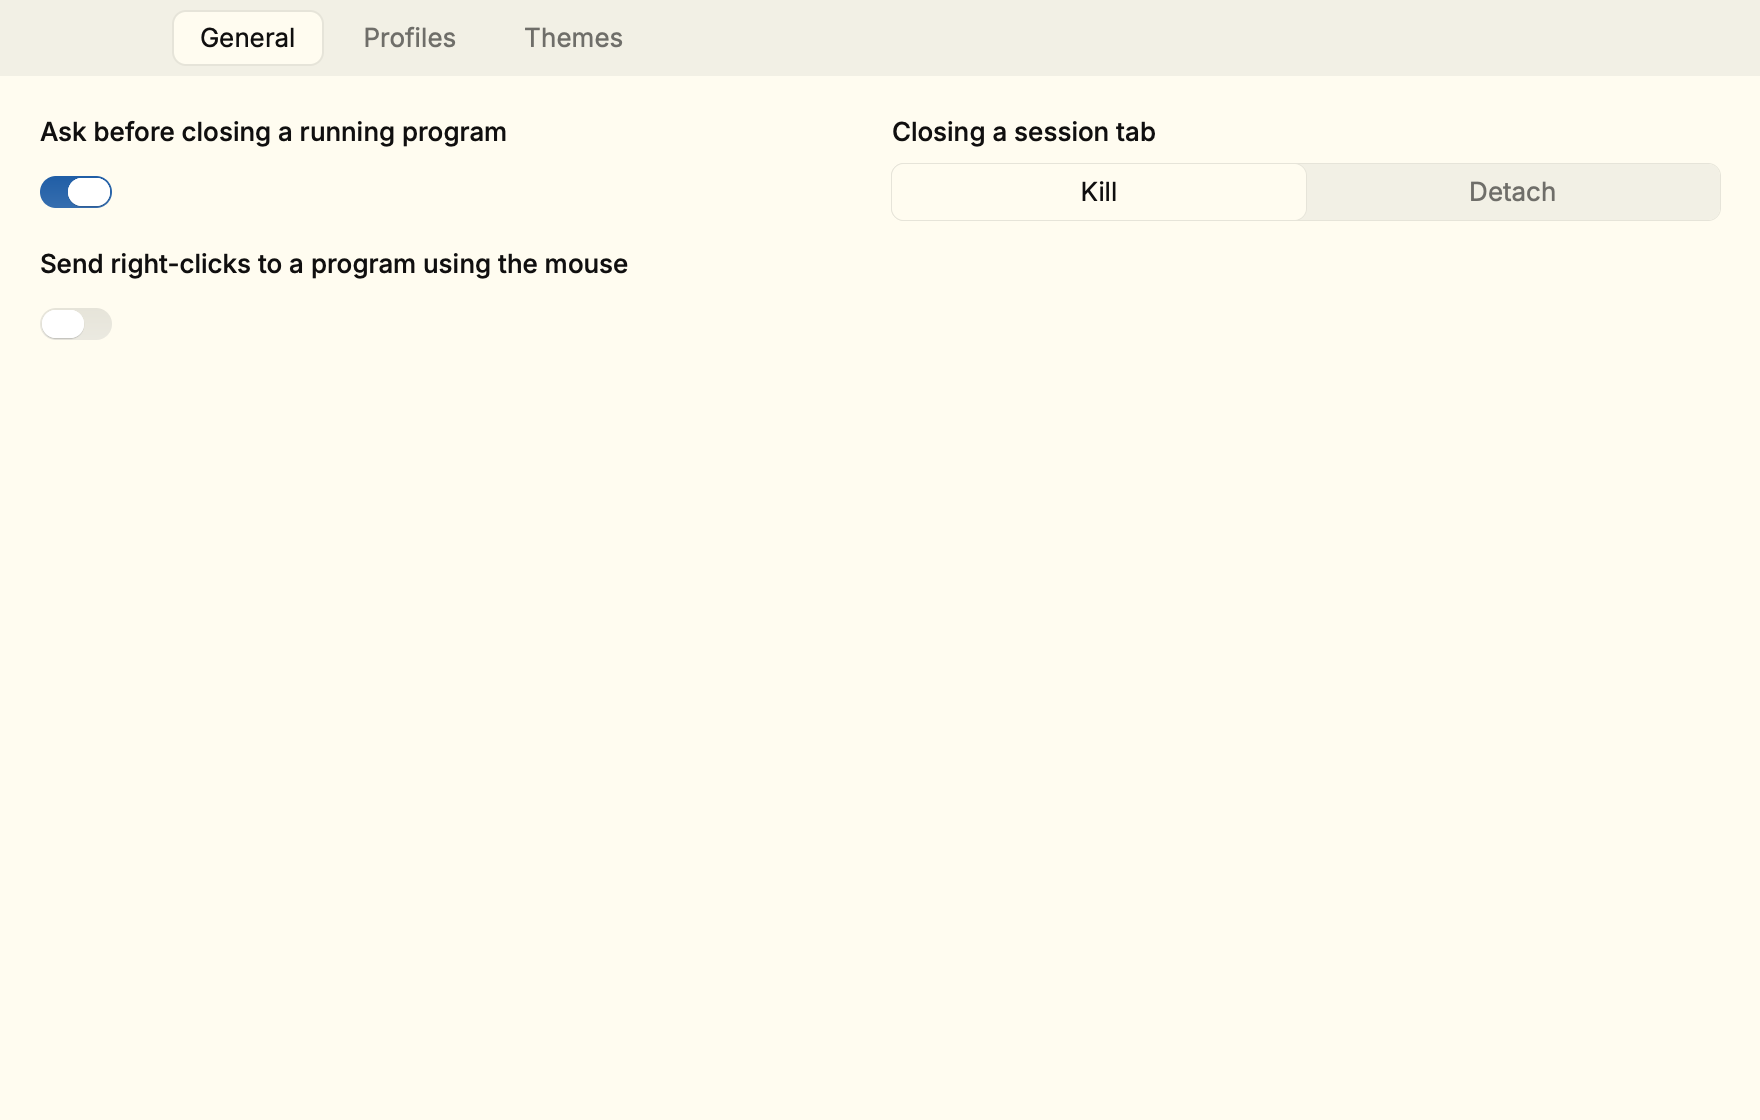
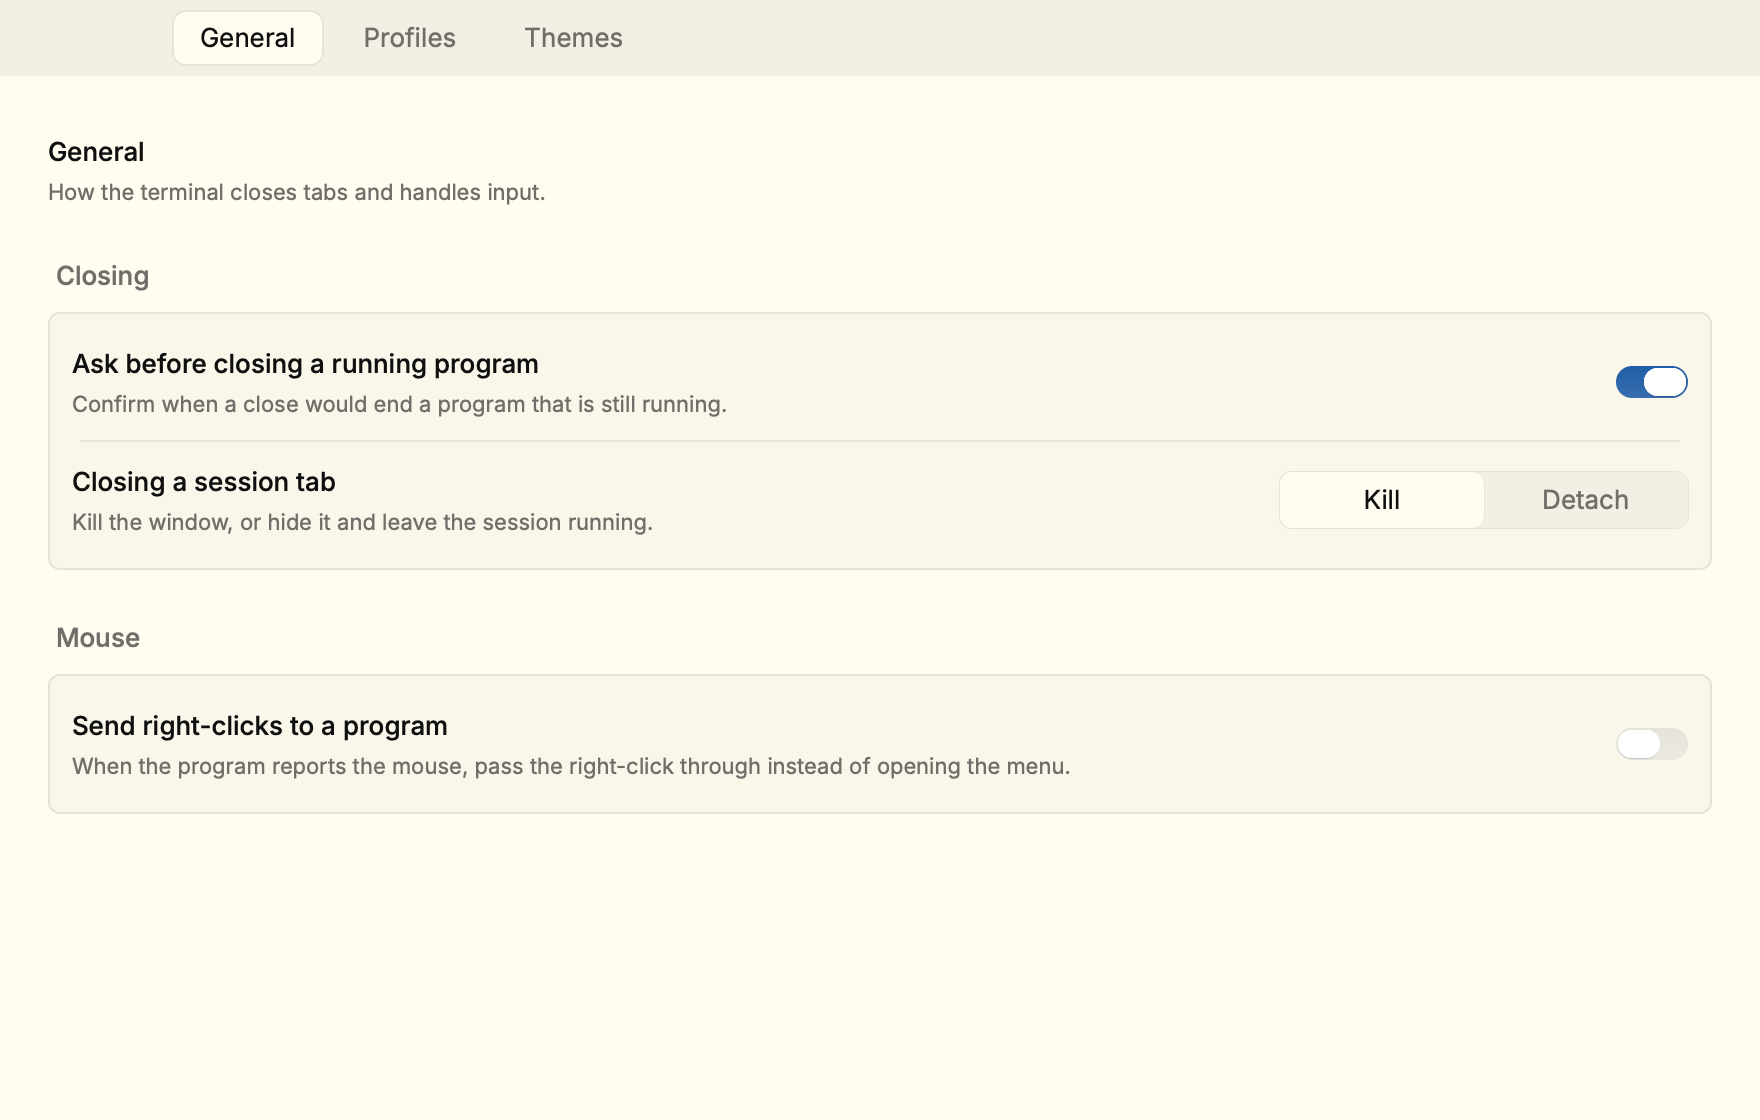
docs: headless shots of the terminal features
just shots now captures split panes, search, selection, the link address on hover and scrollback alongside tabs and settings. New scripts drive the chords and gestures through Rune headless; features.py injects text, link and history content. The regenerated settings images follow the new General cards.

Assisted-by: AGENT:Hy4 flash Free

diff --git a/docs/shots/features.py b/docs/shots/features.py
@@ -1,0 +1,43 @@
+"""Injected terminal content for the headless feature shots. ROWS is optional."""
+
+import sys
+
+mode = sys.argv[1] if len(sys.argv) > 1 else "text"
+rows = int(sys.argv[2]) if len(sys.argv) > 2 else 30
+
+if mode == "text":
+    lines = [
+        "\x1b[1;36mrune-term\x1b[0m — headless feature capture",
+        "",
+        "  \x1b[32m✓\x1b[0m the shell survives a relaunch with handover on",
+        "  \x1b[32m✓\x1b[0m tabs, splits and scrollback keep their own grids",
+        "  \x1b[33m→\x1b[0m drag across these rows to select them",
+        "",
+        "\x1b[35mCommands\x1b[0m",
+        "  just shots      render every picture in docs/images",
+        "  just check-all  fmt, clippy and the library tests",
+        "  just run        build the keeper and open a window",
+        "",
+        "Select a phrase, then right-click the pane for its menu.",
+    ]
+elif mode == "link":
+    url = "https://example.com/a/very/long/path/that/needs/a/tooltip"
+    lines = [
+        "\x1b[1;36mHyperlinks\x1b[0m",
+        "",
+        "  " + "\x1b]8;;" + url + "\x07" + url + "\x1b]8;;\x07",
+        "",
+        "  Hold Command over the address to reveal the whole URL.",
+        "  Right-click a link to open or copy it.",
+    ]
+elif mode == "scroll":
+    lines = [
+        f"\x1b[1;{31 + i % 6}mline {i:03d}\x1b[0m  "
+        + "the quick brown fox jumps over the lazy dog"
+        for i in range(rows * 3)
+    ]
+else:
+    sys.exit("features.py TEXT|LINK|SCROLL [COLS] [ROWS]")
+
+out = "\r\n".join(lines)
+sys.stdout.buffer.write(out.encode())

diff --git a/README.md b/README.md
@@ -6,6 +6,11 @@ sessions are tab groups. The plan is in [`docs/todo/`](./docs/todo/).
 
 ![Tabs. The pane is a 24-bit hue plane from docs/shots/truecolor.py.](./docs/images/terminal-tabs.png)
 
+More headless captures: [split panes](./docs/images/terminal-split.png),
+[search](./docs/images/terminal-search.png), [selection](./docs/images/terminal-selection.png),
+[a link's address on hover](./docs/images/terminal-link.png), and
+[scrollback](./docs/images/terminal-scrollback.png).
+
 Configuration is a directory of TOML files that Cmd+, edits:
 [`docs/config.md`](./docs/config.md). `just shots` renders these pictures.
 
